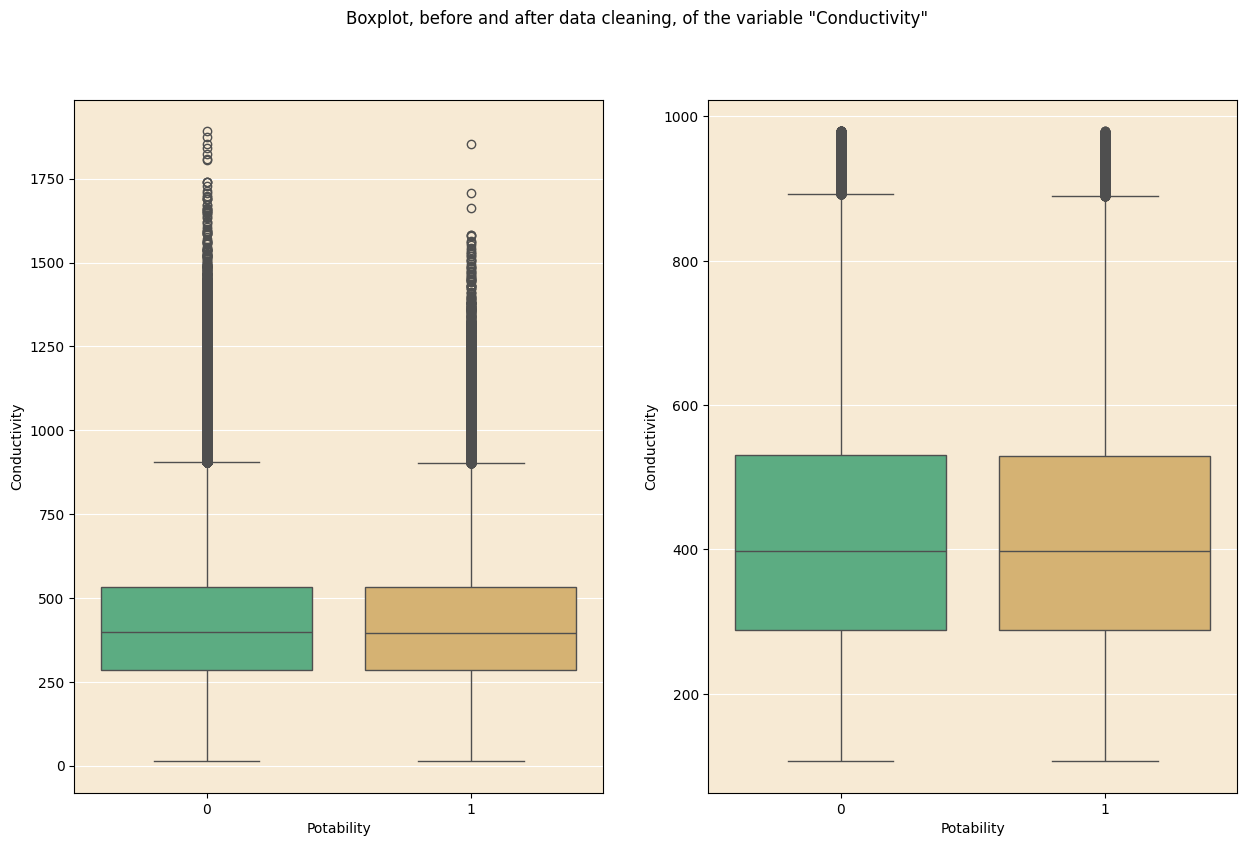
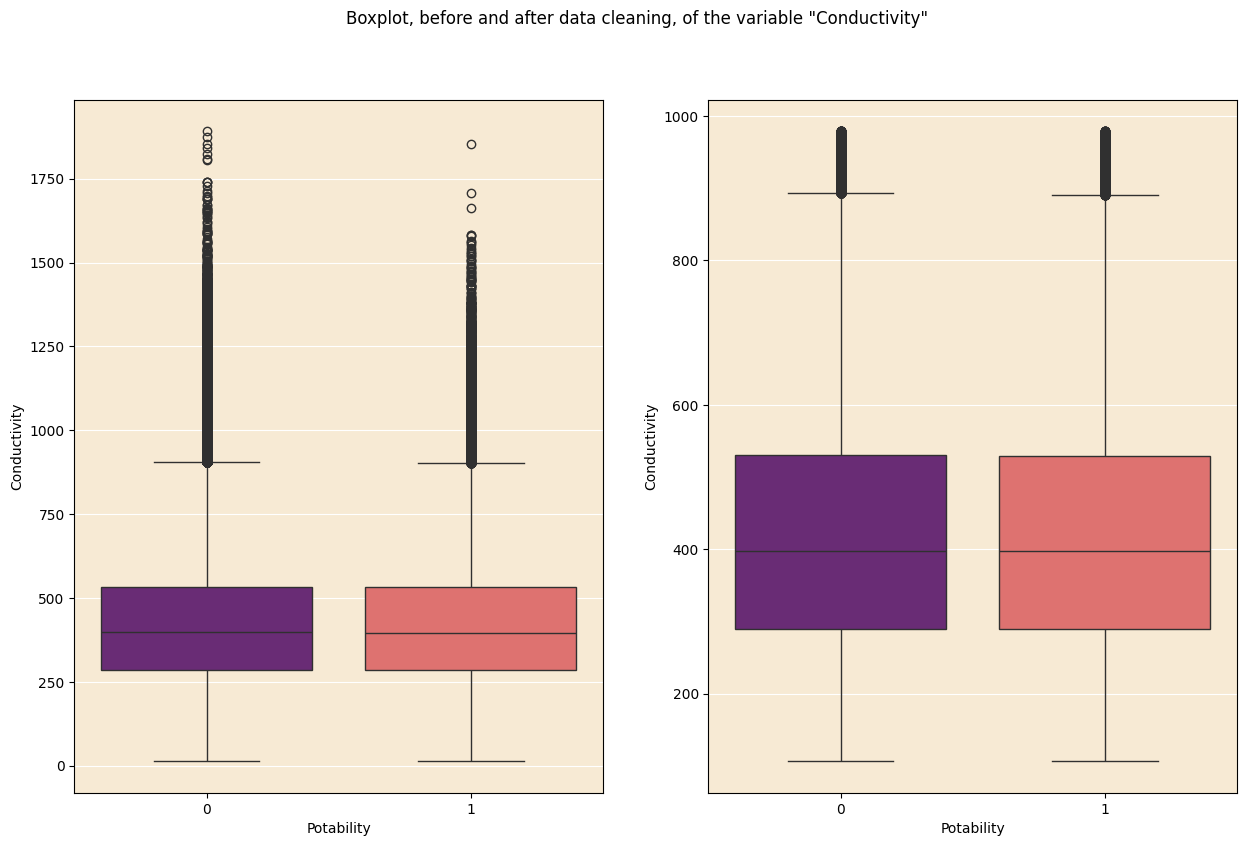
updated description page of streamlit, updated boxplots of streamlit with correct palette, updated README.MD

diff --git a/water_streamlit.py b/water_streamlit.py
@@ -12,7 +12,13 @@ box_sections = st.selectbox('What part of the project would you like to see?', [
 
 if box_sections == 'Description':
        '''
-       **Details of the dataset features:**\n
+       My main goal for this project is to build a prediction model, as accurate as possible, that classifies if a given water sample is potable based on the 15 variables provided.\n
+       From the drop-down menu on the top of this page, you can select what part of the project you're interested in.\n
+       **Exploratory Data Analysis:** gives insights on the general structure of the dataset, and it's divided between "Before Cleaning" and "After Cleaning".\n
+       **Plots:** in here are stored the main plots that can help us have a better understanding of the relations between variables and their relative distributions.\n
+       **Prediction Model:** stored in this page is an interesting visualization of the variables after dimensionality reduction thanks to PCA, and then a slider where you can select the test size for two different ML classification models (Logistic Regression and SVM's) with their relative accuracy scores.\n
+       
+       **Details of the dataset variables:**\n
        1) *pH -* Measures how acidic or basic our sample is. More specifically, it indicates the concentration of hydrogen ions in the water. Unintuitively, an high pH means a higher concentration of hydrogen, a low pH means a lower concentratio. Its scale is between 0 and 14, and a neutral pH of 7 means that is neither acidic or basic.\n
        2) *Iron -* One of the most plentiful resources on earth, can enter underground water sources through rainwater. Iron is not hazardous to healt, but it can be a problem for the house pipe system if it's concentration is too high.\n
        3) *Nitrate -* A compound that naturally occurs in water, consuming too much of it can be harmful (especially for babies). Mainly, consuming too much nitrate can affect how blood carries hoxygen, and also have negative effects on heart rate, nausea, headaches and abdominal cramps.\n
@@ -30,7 +36,6 @@ if box_sections == 'Description':
        15) *Total Dissolved Solids -* Represents the total concentration of dissolved substances in water samples. A high concentration of dissolved solids is usually not a health hazard, and its level in water is often correlated with how strong the taste is.\n
        16) *Potability -* Indicates if the water of a specific sample is potable or not. 0 means potable, 1 means non-potable.\n\n
        
-       My main goal for this project is to build a model that classifies if a given water sample is potable based on the 15 variables provided.
        '''
        st.write('The Water Quality Prediction dataset can be found on:')
        st.link_button('Kaggle', 'https://www.kaggle.com/datasets/vanthanadevi08/water-quality-prediction')
@@ -237,6 +242,9 @@ if box_sections == 'Prediction Model':
        We can now visualize our data thanks to the PCA. Two quite distinct clusters are visible. 
        '''
        st.image('images\pca.png')
+       '''
+       ---
+       '''
        with open('models\potability_classifier_svm.pkl', 'rb') as file:
               svm_model = pickle.load(file)
        t_size = st.slider('Choose test size', 10, 100, step = 10)

diff --git a/README.md b/README.md
@@ -1,5 +1,23 @@
 # Water Potability Prediction
 
+My main goal for this project is to build a model that classifies if a given water sample is potable based on the 15 variables provided.
+
+**Details of the files in the repository:**
+
+- *csv:* all the csv files that are needed for the streamlit presentation, as well as the Water Quality Prediction starting csv file.
+
+- *images:* all the images that are needed for the streamlit presentation. For computational reasons, I found it better to store the plots inside here instead of re-creating them in the streamlit file.
+
+- *models:* the Logistic Regression and SVM models resulting from this project, stored in .pkl files.
+
+- *clean_df.py:* 
+
+- *funzioni.py:* all the functions defined for the data cleaning of the dataset.
+
+- *water_project.ipynb:* the notebook used for this project, where is stored almost all the code.
+
+. *water_streamlit.py:* the python file used for the streamlit presentation.
+
 **Details of the dataset features:**
 
 1) *pH -* Measures how acidic or basic our sample is. More specifically, it indicates the concentration of hydrogen ions in the water. Unintuitively, an high pH means a higher concentration of hydrogen, a low pH means a lower concentratio. Its scale is between 0 and 14, and a neutral pH of 7 means that is neither acidic or basic.
@@ -33,8 +51,5 @@
 15) *Total Dissolved Solids -* Represents the total concentration of dissolved substances in water samples. A high concentration of dissolved solids is usually not a health hazard, and its level in water is often correlated with how strong the taste is.
 
 16) *Potability -* Indicates if the water of a specific sample is potable or not. 0 means potable, 1 means non-potable.
-
-       
-My main goal for this project is to build a model that classifies if a given water sample is potable based on the 15 variables provided.
 
 The Water Quality Prediction dataset can be found in [Kaggle](https://www.kaggle.com/datasets/vanthanadevi08/water-quality-prediction) or in the [Github](https://github.com/dariogemo/water_project) repository for this project, where you can also find the full code.
